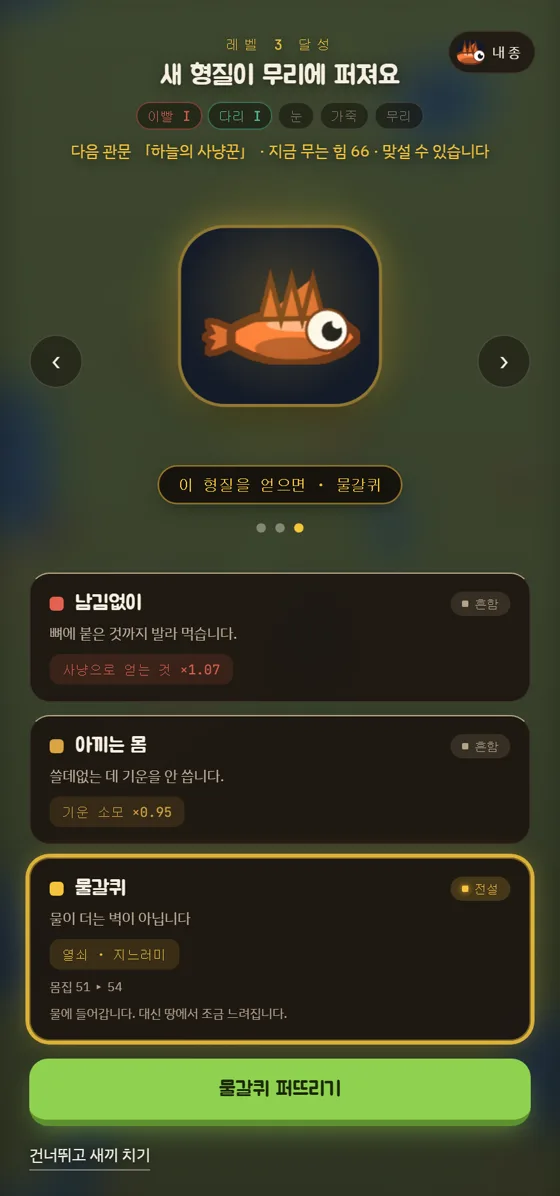
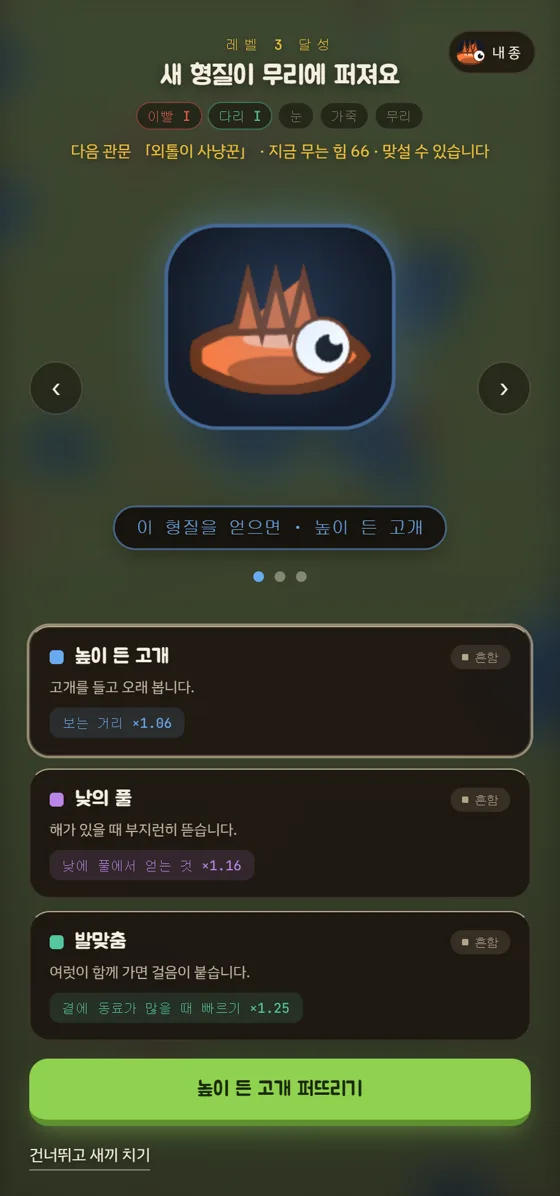
fix(selection-pressure): 소개 페이지와 games.js 를 감독형 본편(지침 시트, 작전타임)에 맞춤
9월 11일에 탭 조종을 사전 지침 시트와 작전타임으로 바꾼 본편을 기준으로 표지 칩과 안내, 지휘 섹션, 무리 범주 설명, 보스 설명, meta 와 og 설명을 고쳤다. 관찰 실습 데모에서는 옛 탭 이동을 걷어 냈다. 표본 도판 세 장과 캡슐, OG 이미지는 라이브 판을 playwright 로 다시 찍었고, 옛 탭 명령과 말벌 떼 장면은 지웠다. known-issues #11 에 재발 기록을 더했다.

diff --git a/g/selection-pressure/index.html b/g/selection-pressure/index.html
@@ -4,11 +4,11 @@
 <meta charset="utf-8">
 <meta name="viewport" content="width=device-width, initial-scale=1">
 <title>적자생존</title>
-<meta name="description" content="한 종을 길러 생태계의 정점에 올리는 진화 로그라이크입니다. 탭으로 무리를 이끌고, 라운드 사이에 카드로 종을 진화시키세요. 개발은 잠시 멈춘 상태이며, 올라온 판은 그대로 플레이할 수 있습니다.">
+<meta name="description" content="한 종을 길러 생태계의 정점에 올리는 진화 로그라이크입니다. 경기 전에 적어 둔 지침으로 무리를 이끌고, 라운드 사이에 카드로 종을 진화시키세요. 개발은 잠시 멈춘 상태이며, 올라온 판은 그대로 플레이할 수 있습니다.">
 
 <meta property="og:type" content="website">
 <meta property="og:title" content="적자생존">
-<meta property="og:description" content="한 종을 길러 생태계의 정점에 올리세요. 탭으로 무리를 이끌고, 라운드 사이에 카드로 종을 진화시키세요.">
+<meta property="og:description" content="한 종을 길러 생태계의 정점에 올리세요. 경기 전에 적어 둔 지침으로 무리를 이끌고, 라운드 사이에 카드로 종을 진화시키세요.">
 <meta property="og:image" content="https://soomin007.github.io/g/selection-pressure/og.png">
 <meta property="og:url" content="https://soomin007.github.io/g/selection-pressure/">
 <meta name="twitter:card" content="summary_large_image">
@@ -200,7 +200,7 @@ a:focus-visible, button:focus-visible { outline: 2px solid var(--lime); outline-
 /* ---------- 관찰 실습 ---------- */
 .lab { border: 1px solid var(--line); border-radius: 18px; padding: clamp(16px, 4vw, 26px); background: rgba(34, 26, 20, 0.5); }
 .sp-world { font-size: 12.5px; color: var(--sub); margin: 0 0 10px; background: rgba(143, 209, 79, 0.08); padding: 6px 10px; border-radius: 8px; line-height: 1.7; }
-.sp-canvas { width: 100%; height: 230px; display: block; border-radius: 14px; border: 1px solid var(--line); touch-action: manipulation; cursor: crosshair; }
+.sp-canvas { width: 100%; height: 230px; display: block; border-radius: 14px; border: 1px solid var(--line); }
 .sp-xpwrap { height: 6px; background: rgba(245, 235, 220, 0.12); border-radius: 3px; margin-top: 10px; overflow: hidden; }
 .sp-xp { height: 100%; width: 0%; background: var(--amber); transition: width 0.3s ease; }
 .sp-gen { font-variant-numeric: tabular-nums; font-size: 11.5px; color: var(--lime); margin: 8px 0 0; min-height: 1.3em; }
@@ -359,16 +359,16 @@ a:focus-visible, button:focus-visible { outline: 2px solid var(--lime); outline-
     <span class="hero__badge hero__badge--paused">개발 보류</span>
     <h1 class="hero__title">적자생존</h1>
     <p class="hero__line">한 종을 길러 생태계의 정점에 올리세요.</p>
-    <p class="hero__hint">탭으로 무리를 이끌고, 라운드마다 닥치는 시련을 넘으세요.</p>
+    <p class="hero__hint">경기 전에 적어 둔 지침으로 무리를 이끌고, <span class="nw">라운드마다 닥치는</span> <span class="nw">시련을 넘으세요.</span></p>
     <div class="hero__meta">
-      <span>1인</span><span>탭, 더블탭, 길게 누르기</span><span>모바일 세로 최적</span>
+      <span>1인</span><span>지침 시트와 작전타임</span><span>PC와 폰 모두</span>
     </div>
     <div class="hero__cta">
       <a class="btn-play" href="https://soomin007.github.io/selection-pressure/">바로 플레이</a>
       <a class="btn-ghost" href="https://github.com/soomin007/selection-pressure" target="_blank" rel="noopener">소스 코드</a>
     </div>
     <p class="hero__free">설치 없이 <span class="nw">브라우저에서 무료로</span> <span class="nw">플레이할 수 있습니다.</span></p>
-    <p class="hero__notice">개발은 2026년 8월 말에 잠시 멈췄습니다. 지금 <span class="nw">올라와 있는</span> 판은 그대로 플레이할 수 있습니다.</p>
+    <p class="hero__notice">개발은 2026년 9월 12일 이후로 멈춰 있습니다. 지금 <span class="nw">올라와 있는</span> 판은 그대로 <span class="nw">플레이할 수 있습니다.</span></p>
   </section>
 
   <!-- 루프 -->
@@ -381,7 +381,7 @@ a:focus-visible, button:focus-visible { outline: 2px solid var(--lime); outline-
       </div>
       <div class="loop__item is-boss rev">
         <p class="loop__k">보스</p>
-        <p class="loop__v">굶주린 상어, 그림자 매복자, 성난 말벌 떼… 예고가 뜨면 무리를 모아 맞서세요. 체력 바를 깎아 물리치면 방울이 떨어집니다.</p>
+        <p class="loop__v">굶주린 상어, 그림자 매복자, 성난 말벌 떼… 위협이 나타나면 경기가 멈추고 작전타임이 열립니다. 맞설 개체를 지침으로 정해 체력 바를 깎아 물리치면 방울이 떨어집니다.</p>
       </div>
       <div class="loop__item is-ext rev">
         <p class="loop__k">대멸종</p>
@@ -392,23 +392,27 @@ a:focus-visible, button:focus-visible { outline: 2px solid var(--lime); outline-
 
   <!-- 지휘 -->
   <section class="sec wrap">
-    <h2 class="sec__title">한 마리가 아니라 무리를 지휘합니다.</h2>
+    <h2 class="sec__title">무리는 경기 전에 <span class="nw">적어 둔 지침대로</span> <span class="nw">움직입니다</span></h2>
     <div class="worlds">
       <div class="world rev">
-        <p class="world__k cmd__k">탭 <b>이동</b></p>
-        <p class="world__v">그 자리로 무리를 보냅니다. 명령 줄을 다시 누르면 철회됩니다.</p>
+        <p class="world__k cmd__k">지침 시트 <b>누가, 어떤 때, 무엇을</b></p>
+        <p class="world__v"><span class="nw">한 줄에</span> 누가 어떤 때 무엇을 할지 적습니다. 경기 중에는 위에서부터 먼저 맞아떨어지는 줄이 실행되고, 줄마다 지금 <span class="nw">그 줄로</span> 움직이는 <span class="nw">개체 수가</span> 뜹니다. 맨 아래에는 <span class="nw">'모두, 늘, 알아서 한다'가</span> 늘 깔려 있습니다.</p>
       </div>
       <div class="world rev">
-        <p class="world__k cmd__k">더블탭 <b>회피</b></p>
-        <p class="world__v">탭한 자리에서 반대쪽으로 흩어져 달아납니다. 다리 1단부터 열립니다.</p>
+        <p class="world__k cmd__k">줄 수 <b>2줄에서 7줄</b></p>
+        <p class="world__v">처음에는 <span class="nw">두 줄을</span> 씁니다. 무리 범주의 티어가 오를 때마다 <span class="nw">한 줄씩</span> 늘고, 열쇠 부름을 얻으면 <span class="nw">한 줄을</span> 더 씁니다.</p>
       </div>
       <div class="world rev">
-        <p class="world__k cmd__k">길게 누르기 <b>명령 휠</b></p>
-        <p class="world__v">밀어서 고르고 떼면 실행됩니다. 지금 열린 명령은 이동과 회피 둘이고, 나머지 칸은 준비 중입니다.</p>
+        <p class="world__k cmd__k">작전타임 <b>단계마다 한 번</b></p>
+        <p class="world__v">위협이나 대멸종 단계가 시작되면 경기가 저절로 멈춥니다. <span class="nw">그 밖에도</span> 단계마다 <span class="nw">한 번</span> 직접 불러 <span class="nw">세울 수 있고</span>, 지침은 경기가 멈춰 있을 때만 고칩니다.</p>
       </div>
       <div class="world rev">
-        <p class="world__k cmd__k">목소리 <b>닿는 거리</b></p>
-        <p class="world__v">명령은 목소리가 닿는 거리 안의 개체에게만 갑니다. 무리 범주를 키우면 그 거리가 넓어집니다.</p>
+        <p class="world__k cmd__k">일정표 <b>시대마다 6단계</b></p>
+        <p class="world__v">이번 시대의 채집, 위협, 대멸종 <span class="nw">여섯 단계가</span> 차례와 시간까지 늘 화면에 보입니다. 어떤 보스가 오는지는 그 단계가 <span class="nw">열릴 때</span> <span class="nw">알 수 있습니다.</span></p>
+      </div>
+      <div class="world rev">
+        <p class="world__k cmd__k">본능 <b>지침보다 먼저</b></p>
+        <p class="world__v">달아나기, 물고 있는 사냥감과 금빛 짐승 쫓기, 방울 줍기는 지침보다 앞섭니다. 본능을 따르는 <span class="nw">개체 수는</span> 지침 아래에 따로 뜹니다.</p>
       </div>
     </div>
   </section>
@@ -419,13 +423,13 @@ a:focus-visible, button:focus-visible { outline: 2px solid var(--lime); outline-
     <div class="plates" role="list">
       <figure class="plate rev" role="listitem">
         <div class="plate__bar">표본 기록 01</div>
-        <img src="../../assets/shots/selection-pressure-command.webp" alt="" loading="lazy">
-        <figcaption>탭 한 번, 무리가 그 자리로 간다</figcaption>
+        <img src="../../assets/shots/selection-pressure-sheet.webp" alt="" loading="lazy">
+        <figcaption>지침과 일정표, 줄마다 <span class="nw">움직이는 수가 뜬다</span></figcaption>
       </figure>
       <figure class="plate rev" role="listitem">
         <div class="plate__bar">표본 기록 02</div>
-        <img src="../../assets/shots/selection-pressure-boss.webp" alt="" loading="lazy">
-        <figcaption>보스: 성난 말벌 떼가 덮친다</figcaption>
+        <img src="../../assets/shots/selection-pressure-timeout.webp" alt="" loading="lazy">
+        <figcaption>위협이 나타나자 경기가 멈춘다</figcaption>
       </figure>
       <figure class="plate rev" role="listitem">
         <div class="plate__bar">표본 기록 03</div>
@@ -443,9 +447,9 @@ a:focus-visible, button:focus-visible { outline: 2px solid var(--lime); outline-
       <div class="cat" style="--c:#8FD14F"><p class="cat__k">다리</p><p class="cat__v">빠르기와 험한 땅. 키울수록 몸이 가벼워지고 잘 지칩니다.</p></div>
       <div class="cat" style="--c:#5AB0E2"><p class="cat__k">눈</p><p class="cat__v">보는 거리와 어둠. 키울수록 옆과 뒤가 좁아집니다.</p></div>
       <div class="cat" style="--c:#F5C33B"><p class="cat__k">가죽</p><p class="cat__v">버티는 힘과 추위. 키울수록 몸이 커지고 더위에 약해집니다.</p></div>
-      <div class="cat" style="--c:#B48CF0"><p class="cat__k">무리</p><p class="cat__v">새끼와 명령이 닿는 거리. 키울수록 나눠 먹고 병이 돕니다.</p></div>
+      <div class="cat" style="--c:#B48CF0"><p class="cat__k">무리</p><p class="cat__v">새끼와 지침 줄 수. 키울수록 나눠 먹고 병이 돕니다.</p></div>
     </div>
-    <p class="grow__note">범주 다섯의 도장은 카드가 아니라 <strong>방울</strong>로만 오릅니다. 방울은 보스를 물리치거나 대멸종을 버티거나 새 시대에 들어설 때 떨어지고, 무리가 밟고 지나가면 주워집니다. 도장이 문턱을 넘으면 티어 효과가 켜지고 드래프트에 새 카드가 열립니다.</p>
+    <p class="grow__note">범주 다섯의 도장은 카드가 아니라 <strong>방울</strong>로만 오릅니다. 방울은 보스를 물리치거나 대멸종을 버티거나 새 시대에 들어설 때 떨어지고, 무리가 스스로 찾아가 주워 옵니다. 도장이 문턱을 넘으면 티어 효과가 켜지고 드래프트에 새 카드가 열립니다.</p>
     <div class="chips rev">
       <span class="chip chip--key">지느러미</span>
       <span class="chip chip--key">날개</span>
@@ -700,7 +704,7 @@ a:focus-visible, button:focus-visible { outline: 2px solid var(--lime); outline-
   var mount = document.getElementById("lab-mount");
   var canvas = document.createElement("canvas");
   canvas.className = "sp-canvas";
-  canvas.setAttribute("aria-label", "개체군 시뮬레이션: 두 섬과 바다. 탭하면 무리가 그리로 갑니다");
+  canvas.setAttribute("aria-label", "개체군 시뮬레이션: 두 섬과 바다. 무리가 먹이를 먹으며 자랍니다");
   mount.appendChild(canvas);
   var ctx = canvas.getContext("2d");
 
@@ -711,9 +715,8 @@ a:focus-visible, button:focus-visible { outline: 2px solid var(--lime); outline-
   xpLab.setAttribute("aria-live", "polite");
   mount.appendChild(xpWrap);
   mount.appendChild(xpLab);
-  var ORD_HINT = "캔버스를 탭하면 무리가 그리로 갑니다. 바다 건너는 날개가 있어야 갑니다.";
-  var ordLab = el("p", "sp-hint", ORD_HINT);
-  mount.appendChild(ordLab);
+  /* 본편처럼 경기 중에는 무리를 직접 움직이지 않는다 (2026-09-11 감독형 전환 뒤 탭 이동을 걷어 냄) */
+  mount.appendChild(el("p", "sp-hint", "경기 중에는 무리를 직접 움직이지 않습니다. 날개가 없는 개체는 바다를 건너지 못해 제 섬의 먹이만 먹습니다."));
 
   var draft = el("div", "sp-draft");
   draft.hidden = true;
@@ -735,7 +738,6 @@ a:focus-visible, button:focus-visible { outline: 2px solid var(--lime); outline-
   var foods = [];
   var eaten = 0, NEED = 6;
   var paused = false, ended = false, chosen = null;
-  var order = null; /* 탭 명령 {x, y, ttl}. 본편 「이동」의 축소판 */
 
   for (var i = 0; i < 12; i++) {
     pop.push({
@@ -780,18 +782,11 @@ a:focus-visible, button:focus-visible { outline: 2px solid var(--lime); outline-
         p.tgt = best;
       }
       p.wob += 0.06;
-      /* 명령이 있으면 먹이보다 명령이 먼저. 길이 없는(바다 건너) 개체는 명령을 놓아 준다 */
-      var goal = null;
-      if (order && !p.arrived && (p.wings || islandOf(order.x) === islandOf(p.x))) goal = order;
-      else if (p.tgt) goal = p.tgt;
+      var goal = p.tgt;
       if (goal) {
         var want = Math.atan2(goal.y - p.y, goal.x - p.x);
         var diff = Math.atan2(Math.sin(want - p.dir), Math.cos(want - p.dir));
         p.dir += diff * (p.echo ? 0.2 : 0.09) + Math.sin(p.wob) * 0.04;
-        if (goal === order) {
-          var ox = order.x - p.x, oy = order.y - p.y;
-          if (ox * ox + oy * oy < 144) p.arrived = true;
-        }
       } else {
         p.dir += Math.sin(p.wob) * 0.08;
       }
@@ -813,19 +808,6 @@ a:focus-visible, button:focus-visible { outline: 2px solid var(--lime); outline-
     });
     foods = foods.filter(function (f) { return !f.gone; });
     if (foods.length < 8) spawnFood(4, "any");
-    if (order) {
-      order.ttl--;
-      var canGo = 0, went = 0;
-      pop.forEach(function (p) {
-        if (p.wings || islandOf(order.x) === islandOf(p.x)) { canGo++; if (p.arrived) went++; }
-      });
-      ordLab.textContent = "「이동」 따르는 중 " + went + "/" + canGo +
-        (canGo < pop.length ? ", 바다 건너 " + (pop.length - canGo) + "마리는 못 갑니다" : "");
-      if (order.ttl <= 0 || went === canGo) {
-        order = null;
-        ordLab.textContent = "무리 도착. 다시 탭하면 또 갑니다.";
-      }
-    }
   }
 
   function onEat() {
@@ -887,14 +869,6 @@ a:focus-visible, button:focus-visible { outline: 2px solid var(--lime); outline-
       ctx.fillStyle = f.island ? "#9bee5a" : "#7fe9ff";
       ctx.fill();
     });
-    if (order) {
-      ctx.strokeStyle = "rgba(245, 195, 59, 0.9)";
-      ctx.lineWidth = 2;
-      ctx.beginPath(); ctx.moveTo(order.x, order.y + 6); ctx.lineTo(order.x, order.y - 12); ctx.stroke();
-      ctx.fillStyle = "#F5C33B";
-      ctx.beginPath(); ctx.moveTo(order.x, order.y - 12); ctx.lineTo(order.x + 9, order.y - 8); ctx.lineTo(order.x, order.y - 4); ctx.closePath(); ctx.fill();
-      ctx.beginPath(); ctx.arc(order.x, order.y + 6, 3, 0, Math.PI * 2); ctx.fill();
-    }
     pop.forEach(drawCreature);
   }
 
@@ -941,16 +915,15 @@ a:focus-visible, button:focus-visible { outline: 2px solid var(--lime); outline-
       flash.appendChild(el("p", "sp-pass", "위협을 넘겼습니다"));
       flash.appendChild(el("p", "sp-big", "생존"));
       flash.appendChild(el("p", "sp-close",
-        "본편은 채집, 보스, 대멸종으로 이어지는 6단계를 시대 5개 동안 되풀이하고, 카드 79장과 다섯 범주의 도장으로 종을 키웁니다."));
+        /* ~ 는 끊지 말 묶음이라, 줄바꿈 없는 공백으로 바꿔 넣는다 (known-issues #13) */
+        "본편은 채집, 보스, 대멸종으로 이어지는 6단계를 시대~5개 동안 되풀이합니다. 경기 전에 적어 둔 지침으로 무리를 움직이고, 카드~79장과 다섯~범주의 도장으로 종을 키웁니다."
+          .replace(/~/g, String.fromCharCode(160))));
       var again = el("button", "tz-btn", "새 혈통으로 시작");
       again.type = "button";
       again.addEventListener("click", function () {
         ended = false; chosen = null; eaten = 0;
         pop.forEach(function (p) { p.size = 1; p.wings = false; p.echo = false; p.spd = 0.55; });
         pop.length = 12;
-        order = null;
-        pop.forEach(function (p) { p.arrived = false; });
-        ordLab.textContent = ORD_HINT;
         xpBar.style.width = "0%";
         xpLab.textContent = "무리가 먹이를 먹으면 경험치가 쌓입니다.";
         flash.hidden = true;
@@ -964,21 +937,6 @@ a:focus-visible, button:focus-visible { outline: 2px solid var(--lime); outline-
   resize();
   draw();
   window.addEventListener("resize", resize);
-  canvas.addEventListener("pointerdown", function (e) {
-    if (paused || ended) return;
-    var r = canvas.getBoundingClientRect();
-    var x = e.clientX - r.left, y = e.clientY - r.top;
-    var isle = islandOf(x);
-    var canGo = pop.filter(function (p) { return p.wings || (isle !== "SEA" && islandOf(p.x) === isle); }).length;
-    if (canGo === 0) {
-      order = null;
-      ordLab.textContent = isle === "SEA" ? "바다 한가운데로는 못 갑니다." : "길이 없어 놓아 줍니다. 날개를 얻으면 바다를 건넙니다.";
-      return;
-    }
-    order = { x: x, y: y, ttl: 600 };
-    pop.forEach(function (p) { p.arrived = false; });
-    if (reducedMotion) { for (var t = 0; t < 60; t++) tick(); draw(); }
-  });
   var io2 = null;
   if (reducedMotion) {
     for (var t = 0; t < 40; t++) tick();

diff --git a/games.js b/games.js
@@ -183,14 +183,14 @@ const GAMES = [
     page: "g/selection-pressure/",
     title: "적자생존",
     kicker: "무리 지휘 진화 로그라이크",
-    line: "한 종을 길러 생태계의 정점에 올리는 게임입니다. 탭으로 무리를 이끌고, 라운드 사이에 카드로 종을 진화시킵니다.",
+    line: "한 종을 길러 생태계의 정점에 올리는 게임입니다. 경기 전에 적어 둔 지침으로 무리를 이끌고, 라운드 사이에 카드로 종을 진화시킵니다.",
     lineLong: "",
     color: "#6FBF8B",
     year: "2026",
     yearLabel: "",
-    meta: ["1인", "탭 지휘", "모바일 세로"],
+    meta: ["1인", "지침 시트", "PC와 폰"],
     status: "paused",
-    note: "개발은 2026년 8월 말에 잠시 멈췄습니다. 지금 올라와 있는 판은 그대로 플레이할 수 있습니다.",
+    note: "개발은 2026년 9월 12일 이후로 멈춰 있습니다. 지금 올라와 있는 판은 그대로 플레이할 수 있습니다.",
     first: false,
     mobile: true,
     img: "assets/selection-pressure.webp",
@@ -198,14 +198,14 @@ const GAMES = [
     theme: "eco",
     tag: "관찰 일지, 잠시 덮어 둠",
     facts: [
-      { k: "조작", v: "탭, 더블탭, 길게 누르기와 라운드 사이 카드" },
+      { k: "조작", v: "경기 전 지침 시트와 작전타임, 라운드 사이 카드" },
       { k: "스택", v: "TypeScript, PixiJS" },
-      { k: "환경", v: "모바일 세로 최적" },
-      { k: "상태", v: "개발 보류 (2026-08-29)" }
+      { k: "환경", v: "PC와 폰 모두" },
+      { k: "상태", v: "개발 보류 (2026-09-12 이후)" }
     ],
     shots: [
-      { src: "assets/shots/selection-pressure-command.webp", cap: "탭 한 번, 무리가 그 자리로 간다" },
-      { src: "assets/shots/selection-pressure-boss.webp", cap: "보스: 성난 말벌 떼가 덮친다" },
+      { src: "assets/shots/selection-pressure-sheet.webp", cap: "지침과 일정표, 줄마다 움직이는 수가 뜬다" },
+      { src: "assets/shots/selection-pressure-timeout.webp", cap: "위협이 나타나자 경기가 멈춘다" },
       { src: "assets/shots/selection-pressure-draft.webp", cap: "라운드 사이, 카드로 진화한다" }
     ],
     links: {

diff --git a/known-issues.md b/known-issues.md
@@ -92,6 +92,11 @@
 - 재발(2026-11-03): 충전이 필요해!를 허브에 올릴 때 그 저장소 README 를 믿고 그림체를 "흑백 · 컬러 카툰 2종"으로 적었다.
   실제 게임은 10-31 에 흑백 한 벌로 바뀌었고 README 만 그대로였다. 게임 저장소의 README 도 옛 설계를 담고 있을 수 있으니,
   meta 와 facts 는 게임 코드(설정 기본값, 키 매핑)에서 다시 확인한다.
+- 재발(2026-11-09 발견, 같은 날 본문과 games.js, 장면 이미지를 고침): 적자생존은 8월 29일에 접은 뒤 9월 7일~12일에 다시 작업했고,
+  9월 11일에 탭 조종을 사전 지침 시트와 작전타임으로 바꿔 배포했다. 허브의 소개 페이지와 games.js 는 8월 30일에 고친
+  그대로 탭 지휘와 "8월 말에 멈췄다"를 싣고 있었다. 개발 일지를 쓰려고 게임 저장소의 git 기록을 보다가 드러났다.
+- 규칙: 게임을 보류나 종료로 적을 때는 게임 저장소의 마지막 커밋 날짜(`git log -1`)를 확인하고, 라이브 번들에서
+  지금의 조작 이름을 grep 해 소개 페이지와 맞춘다. 보류로 적은 게임도 다시 손대는 일이 있다.
 - 규칙: 스크린샷은 **라이브 URL 을 playwright 로 찍는다** (게임 저장소의 `node_modules/playwright`
   를 `NODE_PATH` 로 빌려 쓴다 · 모바일 440x940 @2x → 560x1196 webp · 데스크톱 1280x720 @1.5 →
   캡슐 1232x706 · OG 1200x630 · `?seed=` 고정). 로컬 dev 서버도, 크롬 창 전경화(#3)도 필요 없다.
